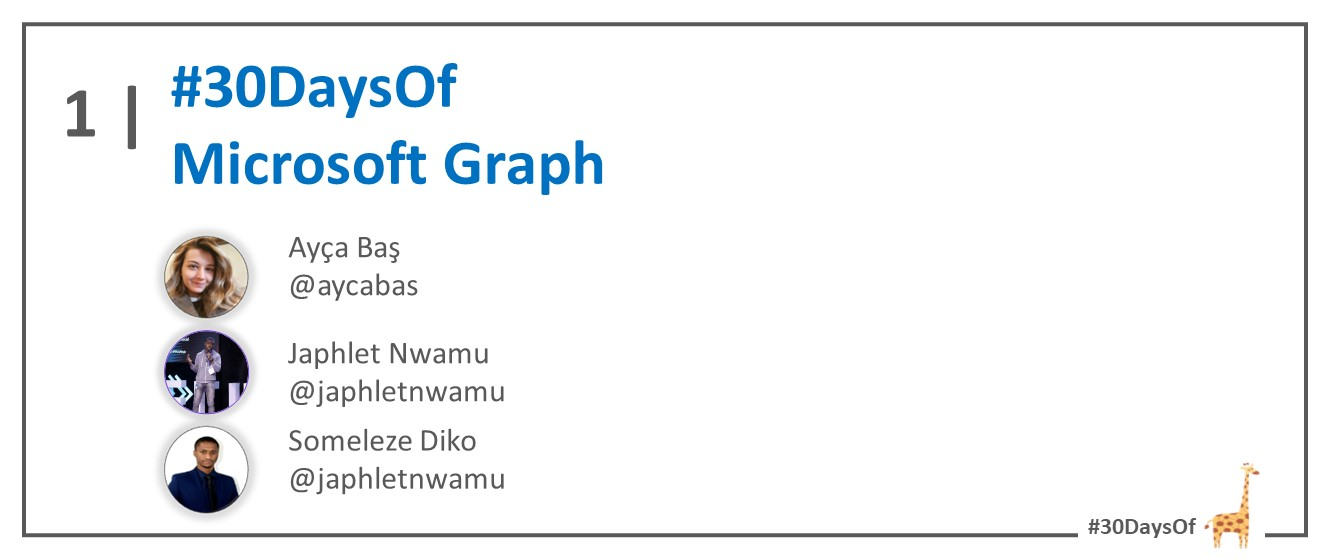
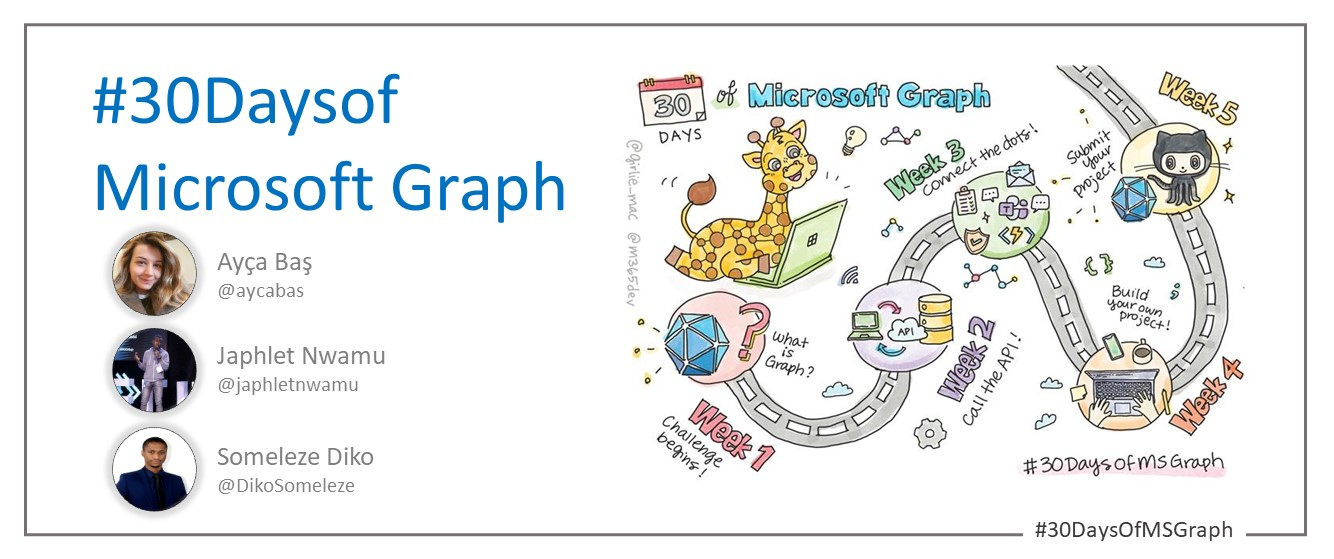
Added doodle image

Changed region(s): [[0.0, 0.0304, 0.9835, 0.9732]]

diff --git a/website/docs/roadmaps/08-microsoft-graph.md b/website/docs/roadmaps/08-microsoft-graph.md
@@ -33,6 +33,9 @@ Get started by familiarizing yourself with the [Onboarding Resources](https://ak
 
 ---
 
+![Roadmap](./../../static/img/banners/microsoft-graph-roadmap.jpg)
+
+
 ## Week 1 - The Challenge begins!
 
 :::info WEEK 1 SCHEDULE
